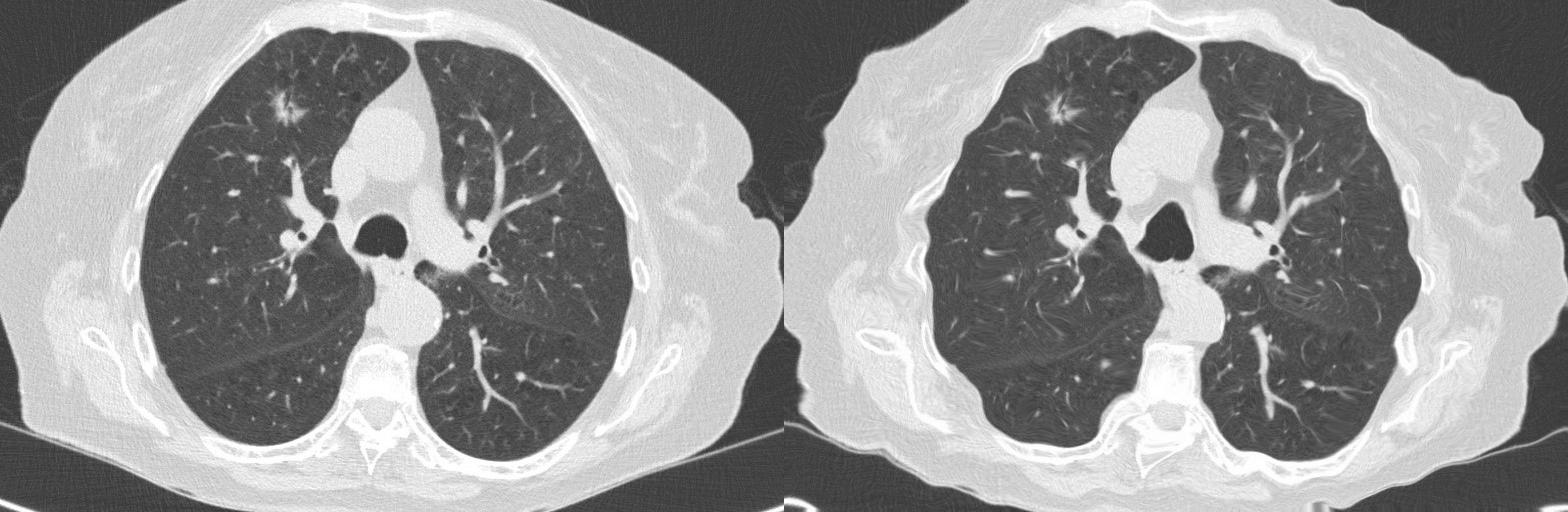
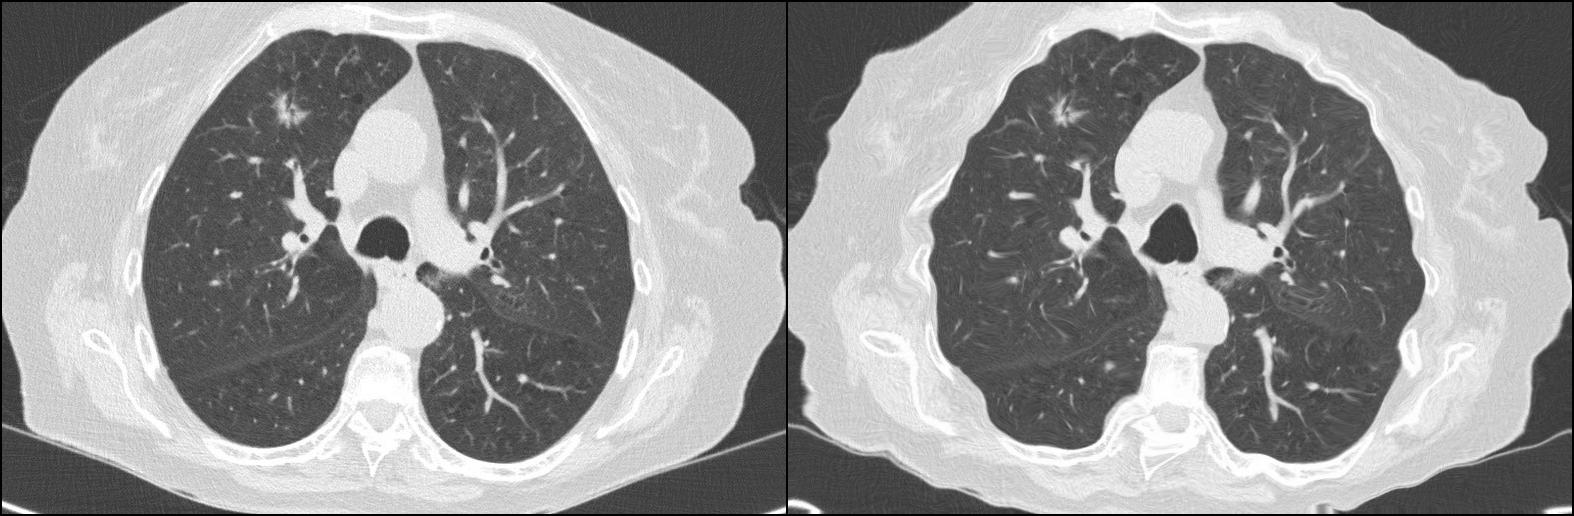
fixed batch mode

diff --git a/example.py b/example.py
@@ -1,6 +1,7 @@
 import torchvision
 import elastic_transform
 import numpy as np, time
+import torch
 
 from PIL import Image
 
@@ -10,6 +11,7 @@ if __name__ == "__main__":
 
     # image_pil = Image.open(fname).resize((10,10))
     image_pil = Image.open(fname)
+    
     image = torchvision.transforms.ToTensor()(image_pil)[None][:,[0]].to(device)
 
     s_time = time.time()
@@ -18,14 +20,9 @@ if __name__ == "__main__":
     image_transformed = et.forward(image)
     e_time = time.time() - s_time
 
+    img_cat = torch.cat([image, image_transformed], dim=0)
+    output = (torchvision.utils.make_grid(img_cat).detach().permute(1,2,0).cpu().numpy().squeeze()*255).astype('uint8')
     fname_out = 'transformed.jpg'
-    image_pil = torchvision.transforms.ToPILImage()(image_transformed.cpu().squeeze())
-    image_pil.save(fname_out)
-
-    org = (image.cpu().numpy().squeeze()*255).astype('uint8')
-    out = (image_transformed.detach().cpu().numpy().squeeze()*255).astype('uint8')
-
-    output = np.concatenate([org, out, ],axis=1)
     Image.fromarray(output).save(fname_out)
 
     print('%.3f seconds with %s to process image "%s", '  

diff --git a/elastic_transform.py b/elastic_transform.py
@@ -72,8 +72,8 @@ def elastic_transform_2d(tensor: torch.Tensor,
     d_rand = torch.rand(n, 2, h, w, generator=generator).to(
         device=tensor.device) * 2 - 1
 
-    tensor_y = d_rand[:, 0].squeeze()
-    tensor_x = d_rand[:, 1].squeeze()
+    tensor_y = d_rand[:, 0]
+    tensor_x = d_rand[:, 1]
 
     dy = apply_gaussian(tensor_y, sigma[0]) * alpha[0]
     dx = apply_gaussian(tensor_x, sigma[1]) * alpha[1]
@@ -103,7 +103,7 @@ def apply_gaussian(tensor, sigma):
     kernel_size = int(2*(4.0*sigma+0.5))
     k = get_gaussian_kernel2d((kernel_size, kernel_size), (sigma, sigma))
     t2 = kornia.filters.filter2D(
-        tensor[None, None], kernel=k[None], border_type='constant')
+        tensor[:, None], kernel=k[None], border_type='constant')
 
     return t2
 
